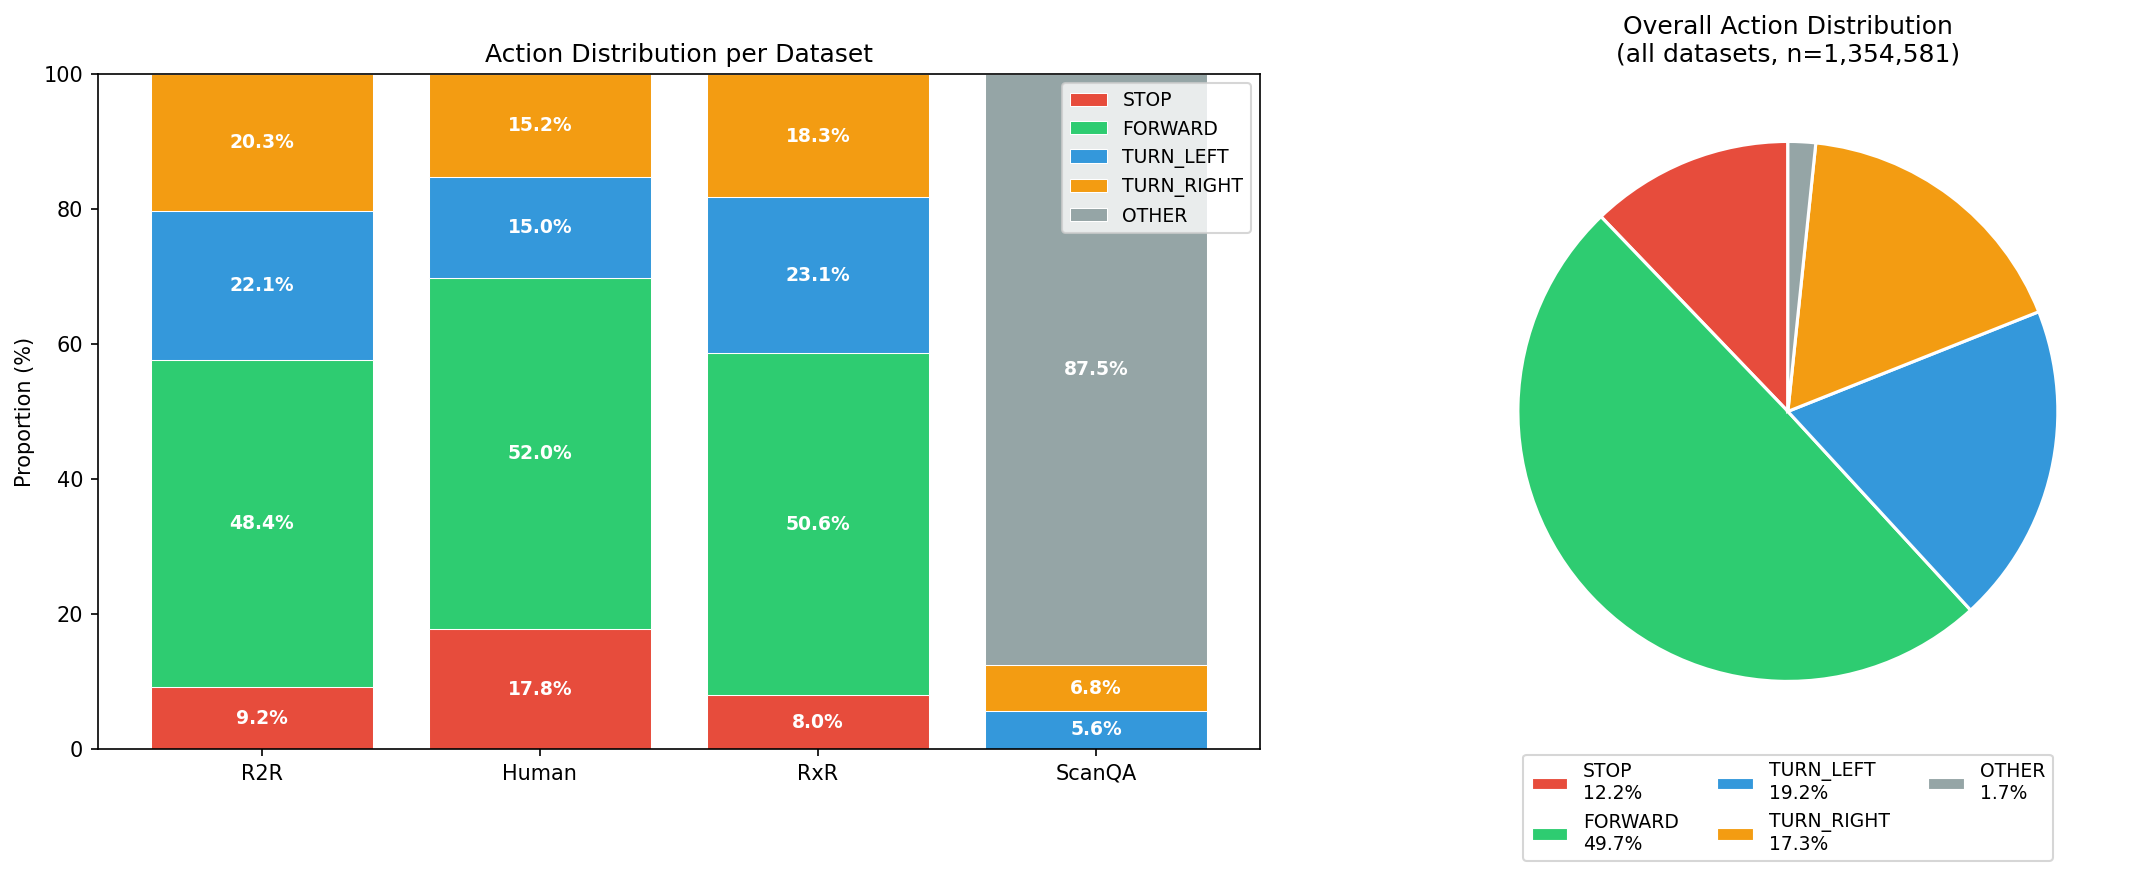
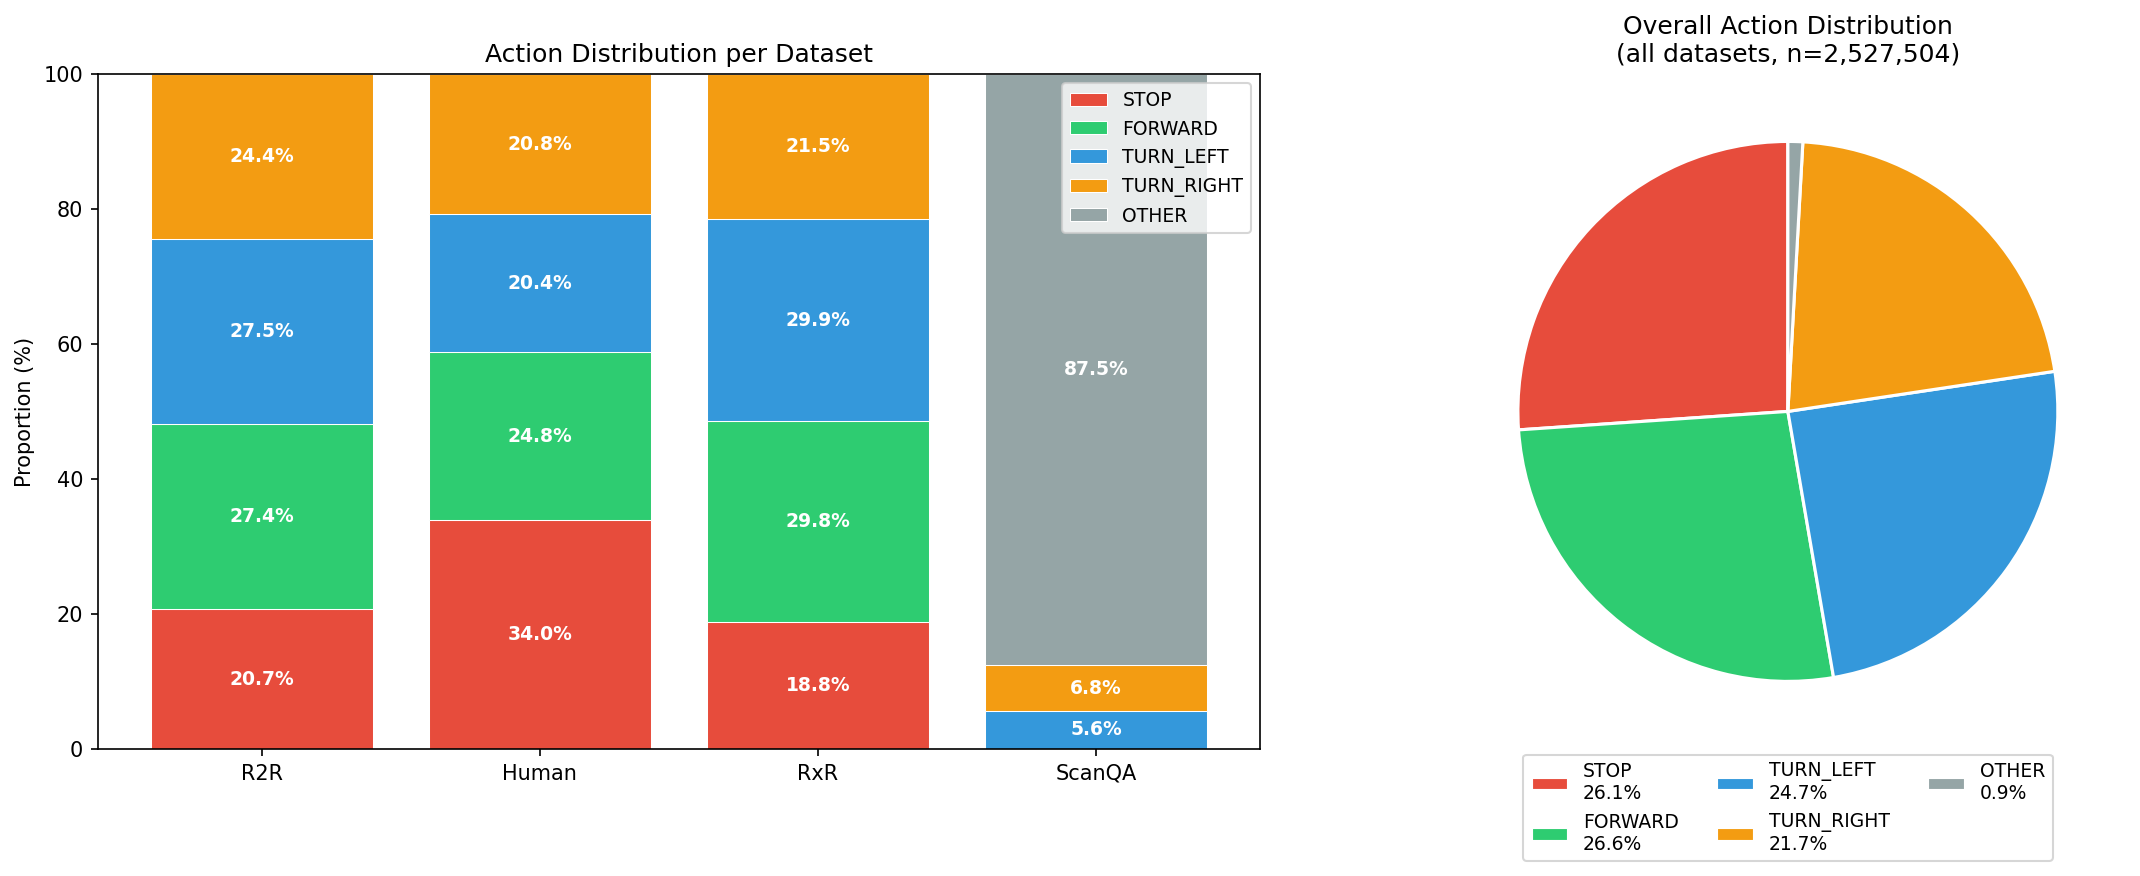
modified slurm qwen bash

diff --git a/gru data generation/nav_action_encoding.py b/gru data generation/nav_action_encoding.py
@@ -14,11 +14,15 @@ Action codes:  STOP=0  FORWARD=1  TURN_LEFT=2  TURN_RIGHT=3
 
 `gru(step S) = concat(action_codes(a) for every prior step k < S) + [0]`
 
-The trailing ``0`` is a *structural placeholder for the current frame/node* (the
-action still to be predicted), NOT a STOP the agent emitted: it is present on every
-row regardless of the answer, which is what makes ``len(gru) == len(frames)``. A real
-STOP answer parses to ``[]`` and contributes nothing, so genuine stops never add an
-interior ``0`` — the only ``0`` is the structural tail.
+The trailing ``0`` is a *structural placeholder for the current node* (the action
+still to be predicted), NOT a STOP the agent emitted: it is present on every row
+regardless of the answer. A real STOP answer parses to ``[]`` and contributes
+nothing, so genuine stops never add an interior ``0`` — the only ``0`` is the tail.
+
+``gru`` encodes the *history of actions* in the trajectory so far; its length has NO
+relationship to ``len(frames)`` (how many frames a slice stores). They are independent
+and must not be compared. (They happen to be equal for the simulator datasets R2R/RxR
+only because those store one frame per motion primitive; real-video Human does not.)
 """
 
 import re
@@ -78,6 +82,42 @@ def split_video_id(video_id: str) -> Tuple[str, int]:
         return traj, 0
 
 
+def accumulate_episodes(records, episodes=None):
+    """Fold rows into ``episodes[traj][step] = own_action_codes`` (in place).
+
+    Call repeatedly to *union* several record lists (e.g. the plain annotations
+    plus an oversampled copy): the first record seen for a given ``(traj, step)``
+    wins, so identical duplicates and re-orderings are harmless, and steps present
+    in either source are all captured. Returns the same ``episodes`` dict.
+    """
+    if episodes is None:
+        episodes = defaultdict(dict)
+    for rec in records:
+        traj, step = split_video_id(str(rec.get("video_id", "")))
+        if step not in episodes[traj]:
+            episodes[traj][step] = action_codes_from_answer(str(rec.get("a", "")))
+    return episodes
+
+
+def episodes_to_step_gru(episodes):
+    """``episodes[traj][step]=codes`` -> ``step_gru[traj][step]=gru`` (exclusive).
+
+    Walks each trajectory's steps in ascending order with a running prefix,
+    snapshotting ``gru = running + [0]`` *before* extending with the step's own
+    codes (so a step's action never leaks into its own gru). Robust to step gaps
+    (accumulates over present steps only).
+    """
+    step_gru: Dict[str, Dict[int, List[int]]] = {}
+    for traj, step_codes in episodes.items():
+        running: List[int] = []
+        per_step: Dict[int, List[int]] = {}
+        for step in sorted(step_codes):
+            per_step[step] = list(running) + [STOP]
+            running.extend(step_codes[step])
+        step_gru[traj] = per_step
+    return step_gru
+
+
 def build_trajectory_gru(records: List[dict]) -> Dict[str, List[int]]:
     """Reconstruct episodes and return ``{video_id: gru}`` for every row.
 
@@ -93,24 +133,8 @@ def build_trajectory_gru(records: List[dict]) -> Dict[str, List[int]]:
     Robust to step gaps (accumulates over the present sorted steps only) and to
     duplicate steps (all rows at a step receive the identical gru).
     """
-    # traj -> {step: own_codes}
-    episodes: Dict[str, Dict[int, List[int]]] = defaultdict(dict)
-    for rec in records:
-        traj, step = split_video_id(str(rec.get("video_id", "")))
-        # unique step: identical duplicates are harmless; if codes ever differ
-        # keep the first seen (deterministic w.r.t. input order).
-        if step not in episodes[traj]:
-            episodes[traj][step] = action_codes_from_answer(str(rec.get("a", "")))
-
-    # traj -> {step: gru}
-    step_gru: Dict[str, Dict[int, List[int]]] = {}
-    for traj, step_codes in episodes.items():
-        running: List[int] = []
-        per_step: Dict[int, List[int]] = {}
-        for step in sorted(step_codes):
-            per_step[step] = list(running) + [STOP]
-            running.extend(step_codes[step])
-        step_gru[traj] = per_step
+    episodes = accumulate_episodes(records)
+    step_gru = episodes_to_step_gru(episodes)
 
     # assign back to every row (including duplicates) by video_id
     out: Dict[str, List[int]] = {}

diff --git a/gru data generation/add_gru_to_annotations.py b/gru data generation/add_gru_to_annotations.py
@@ -26,7 +26,11 @@ from pathlib import Path
 
 # Allow running from anywhere: the shared module sits next to this file.
 sys.path.insert(0, str(Path(__file__).resolve().parent))
-from nav_action_encoding import build_trajectory_gru, split_video_id  # noqa: E402
+from nav_action_encoding import (  # noqa: E402
+    accumulate_episodes,
+    episodes_to_step_gru,
+    split_video_id,
+)
 
 # Same auto-detect order as qwen-vl-finetune/qwenvl/data/__init__.py.
 NAVILA_CANDIDATES = [
@@ -40,6 +44,12 @@ DATASET_INPUT = {
     "r2r": "R2R/annotations.json",
     "rxr": "RxR/annotations.json",
     "human": "Human/annotations.json",
+}
+# dataset -> relative path of the oversampled annotations (what training loads).
+DATASET_OVERSAMPLED = {
+    "r2r": "R2R/annotations_oversampled.json",
+    "rxr": "RxR/annotations_oversampled.json",
+    "human": "Human/annotations_oversampled.json",
 }
 
 
@@ -61,23 +71,37 @@ def main():
     ap.add_argument("--dataset", choices=sorted(DATASET_INPUT), required=True)
     ap.add_argument("--navila-base", default=None, help="override NaVILA-Dataset root")
     ap.add_argument("--input", default=None, help="explicit annotations.json (overrides --dataset path)")
+    ap.add_argument("--oversampled", action="store_true",
+                    help="use annotations_oversampled.json as the records to emit; "
+                         "the trajectory map is still built from the UNION of the plain "
+                         "+ oversampled files so exclusive prefixes stay complete")
     ap.add_argument("--out-dir", default=str(Path(__file__).resolve().parent / "generated"))
     ap.add_argument("--limit", type=int, default=0, help="only process the first N rows (quick check)")
     ap.add_argument("--indent", type=int, default=0, help="JSON indent (0 = compact, matches on-disk format)")
     args = ap.parse_args()
 
     base = detect_navila_base(args.navila_base)
-    in_path = args.input or os.path.join(base, DATASET_INPUT[args.dataset])
+
+    # `in_path` = the records we emit (with gru attached). In oversampled mode this is
+    # the oversampled file; the plain file is loaded only to complete the trajectory map.
+    if args.input:
+        in_path = args.input
+    elif args.oversampled:
+        in_path = os.path.join(base, DATASET_OVERSAMPLED[args.dataset])
+    else:
+        in_path = os.path.join(base, DATASET_INPUT[args.dataset])
     if not Path(in_path).exists():
         raise FileNotFoundError(f"Input annotations not found: {in_path}")
 
     out_dir = Path(args.out_dir)
     out_dir.mkdir(parents=True, exist_ok=True)
     suffix = f"_first{args.limit}" if args.limit else ""
-    out_path = out_dir / f"{args.dataset}_annotations_with_gru{suffix}.json"
+    stem = f"{args.dataset}_oversampled_with_gru" if args.oversampled else f"{args.dataset}_annotations_with_gru"
+    out_path = out_dir / f"{stem}{suffix}.json"
 
     print(f"[gen] dataset   : {args.dataset}")
     print(f"[gen] navila    : {base}")
+    print(f"[gen] oversampled: {args.oversampled}")
     print(f"[gen] input     : {in_path}")
     print(f"[gen] output    : {out_path}")
 
@@ -88,13 +112,36 @@ def main():
         records = records[: args.limit]
     print(f"[gen] loaded {len(records):,} records in {time.time()-t0:.1f}s")
 
-    # Reconstruct episodes -> {video_id: gru}, then attach to each row in place
-    # (preserving original key order + record order).
-    vid_gru = build_trajectory_gru(records)
-    n_traj = len({split_video_id(str(r.get('video_id', '')))[0] for r in records})
+    # Build the trajectory->step->codes map. In oversampled mode we UNION the plain
+    # annotations first so every step of a trajectory is present even if oversampling
+    # dropped some — the per-video_id gru is deterministic, so duplicates are harmless.
+    episodes = accumulate_episodes(records)
+    if args.oversampled and not args.input:
+        plain_path = os.path.join(base, DATASET_INPUT[args.dataset])
+        if Path(plain_path).exists():
+            t1 = time.time()
+            with open(plain_path) as f:
+                plain_records = json.load(f)
+            before = sum(len(v) for v in episodes.values())
+            accumulate_episodes(plain_records, episodes)
+            after = sum(len(v) for v in episodes.values())
+            del plain_records
+            print(f"[gen] unioned plain {plain_path} in {time.time()-t1:.1f}s "
+                  f"(+{after-before:,} steps not in oversampled)")
+        else:
+            print(f"[gen] WARNING: plain file not found ({plain_path}); "
+                  f"reconstructing from oversampled alone (gaps possible)")
+
+    step_gru = episodes_to_step_gru(episodes)
+
+    # Attach gru to each emitted row in place (preserving key + record order).
+    # gru length (= number of history actions in the trajectory so far) has NO
+    # relationship to len(frames); the two are independent and are not compared.
+    n_traj = len(episodes)
     max_len = 0
     for rec in records:
-        g = vid_gru[str(rec.get("video_id", ""))]
+        traj, step = split_video_id(str(rec.get("video_id", "")))
+        g = step_gru[traj][step]
         rec["gru"] = g
         if len(g) > max_len:
             max_len = len(g)

diff --git a/gru data generation/verify_gru_annotations.py b/gru data generation/verify_gru_annotations.py
@@ -32,8 +32,10 @@ from pathlib import Path
 
 sys.path.insert(0, str(Path(__file__).resolve().parent))
 from nav_action_encoding import (  # noqa: E402
+    accumulate_episodes,
     action_codes_from_answer,
     build_trajectory_gru,
+    episodes_to_step_gru,
     split_video_id,
 )
 
@@ -47,6 +49,11 @@ DATASET_INPUT = {
     "r2r": "R2R/annotations.json",
     "rxr": "RxR/annotations.json",
     "human": "Human/annotations.json",
+}
+DATASET_OVERSAMPLED = {
+    "r2r": "R2R/annotations_oversampled.json",
+    "rxr": "RxR/annotations_oversampled.json",
+    "human": "Human/annotations_oversampled.json",
 }
 # action_dict_all locations (R2R's lives at the dataset root; Human has none).
 ACTION_DICT = {
@@ -93,6 +100,9 @@ def main():
     ap.add_argument("--navila-base", default=None)
     ap.add_argument("--input", default=None, help="plain annotations.json (default from --dataset)")
     ap.add_argument("--generated", default=None, help="generated *_with_gru.json to validate")
+    ap.add_argument("--oversampled", action="store_true",
+                    help="union the oversampled file into the recompute base so the "
+                         "checks cover every oversampled row (matches generator's map)")
     ap.add_argument("--limit", type=int, default=0)
     args = ap.parse_args()
 
@@ -112,8 +122,26 @@ def main():
     print(f"[verify] episodes={n_traj:,} | duplicate video_ids={dup_vids:,} | "
           f"episodes with gaps/non-zero-start={gaps:,}")
 
-    # Recompute gru from plain annotations (the source of truth for the rule).
-    recomputed = build_trajectory_gru(records)
+    # Recompute gru. Base = plain annotations (source of truth for the rule). In
+    # --oversampled mode, union the oversampled file too so recomputed covers every
+    # oversampled video_id (identical map to the generator).
+    episodes = accumulate_episodes(records)
+    if args.oversampled and not args.limit:
+        over_path = os.path.join(base, DATASET_OVERSAMPLED[args.dataset])
+        if Path(over_path).exists():
+            with open(over_path) as f:
+                over_records = json.load(f)
+            accumulate_episodes(over_records, episodes)
+            del over_records
+            print(f"[verify] unioned oversampled {over_path}")
+    step_gru = episodes_to_step_gru(episodes)
+    recomputed = {}
+    for rec in records:
+        vid = str(rec.get("video_id", ""))
+        traj, step = split_video_id(vid)
+        recomputed[vid] = step_gru[traj][step]
+    # keep step_gru for --generated coverage of oversampled-only vids
+    _step_gru_full = step_gru
 
     failures = []
 
@@ -199,19 +227,38 @@ def main():
             gen = gen[: args.limit]
         diffs = 0
         shown = 0
+        uncovered = 0
+        struct_bad = 0
         for r in gen:
             vid = str(r.get("video_id", ""))
+            g = [int(x) for x in r.get("gru", [])]
+            # structural checks on the FILE's own gru. NOTE: len(frames) is
+            # intentionally NOT checked — gru length (number of history actions) is
+            # unrelated to how many frames a slice stores.
+            if not g or g[-1] != 0 or 0 in g[:-1] or any(c not in VALID_CODES for c in g):
+                struct_bad += 1
+            # expected gru: prefer plain recompute; fall back to full (union) map so
+            # oversampled-only trajectories are still covered.
             exp = recomputed.get(vid)
             if exp is None:
+                traj, step = split_video_id(vid)
+                exp = _step_gru_full.get(traj, {}).get(step)
+            if exp is None:
+                uncovered += 1
                 continue
-            if [int(x) for x in r.get("gru", [])] != exp:
+            if g != exp:
                 diffs += 1
                 if shown < 3:
-                    print(f"   [generated DIFF] {vid}: file={r.get('gru')} recomputed={exp}")
+                    print(f"   [generated DIFF] {vid}: file={g[:10]} recomputed={exp[:10]}")
                     shown += 1
-        print(f"[verify] generated file {Path(args.generated).name}: rows={len(gen):,} diffs={diffs}")
+        print(f"[verify] generated file {Path(args.generated).name}: rows={len(gen):,} "
+              f"diffs={diffs} uncovered={uncovered} struct_bad={struct_bad}")
         if diffs:
             failures.append(f"{diffs} generated-file diffs")
+        if uncovered:
+            failures.append(f"{uncovered} generated rows with no reconstructable gru")
+        if struct_bad:
+            failures.append(f"{struct_bad} generated rows failing structural check")
 
     print("=" * 60)
     if failures:

diff --git a/gru data generation/README.md b/gru data generation/README.md
@@ -16,10 +16,14 @@ gru(step S) = concat( action_codes(a) for every prior step k < S ) + [0]
 
 - `action_codes(a)` parses the answer text: `turn right 45 degree → [3,3,3]`,
   `move forward 75 cm → [1,1,1]`, `stop → []` (see `nav_action_encoding.py`).
-- The trailing **`0` is a structural placeholder for the *current* frame** (the action
-  still to be predicted), **not** a STOP the agent emitted. It is on every row, which
-  is what makes `len(gru) == len(frames)`. A real STOP answer parses to `[]`, so genuine
-  stops never add an interior `0` — the only `0` is the tail.
+- The trailing **`0` is a structural placeholder for the *current* node** (the action
+  still to be predicted), **not** a STOP the agent emitted. It is on every row. A real
+  STOP answer parses to `[]`, so genuine stops never add an interior `0` — the only `0`
+  is the tail.
+- **`gru` length is unrelated to `len(frames)`.** `gru` is the history of actions so far
+  (each turn/forward expands to several codes); `frames` is however many frames a slice
+  stores. They are independent and must not be compared. They coincide for the simulator
+  datasets R2R/RxR (one frame per motion primitive) but **not** for real-video Human.
 - The scheme is **exclusive**: a step's own action never appears in its own `gru` (no
   label leakage); it first shows up in the next step's prefix.
 